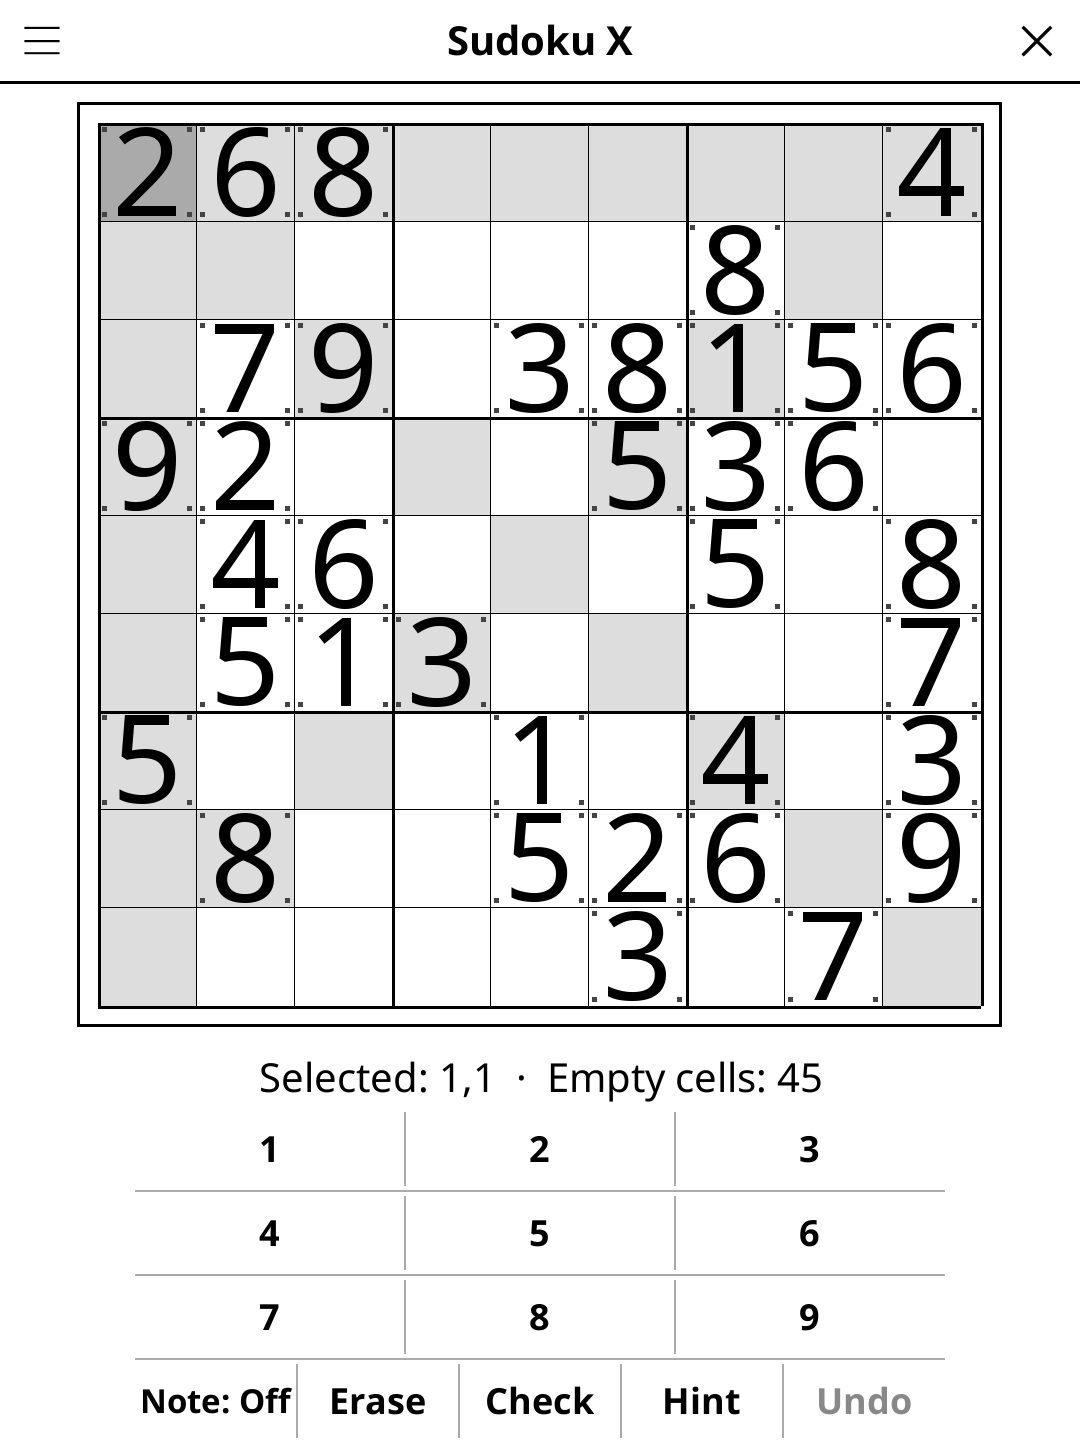
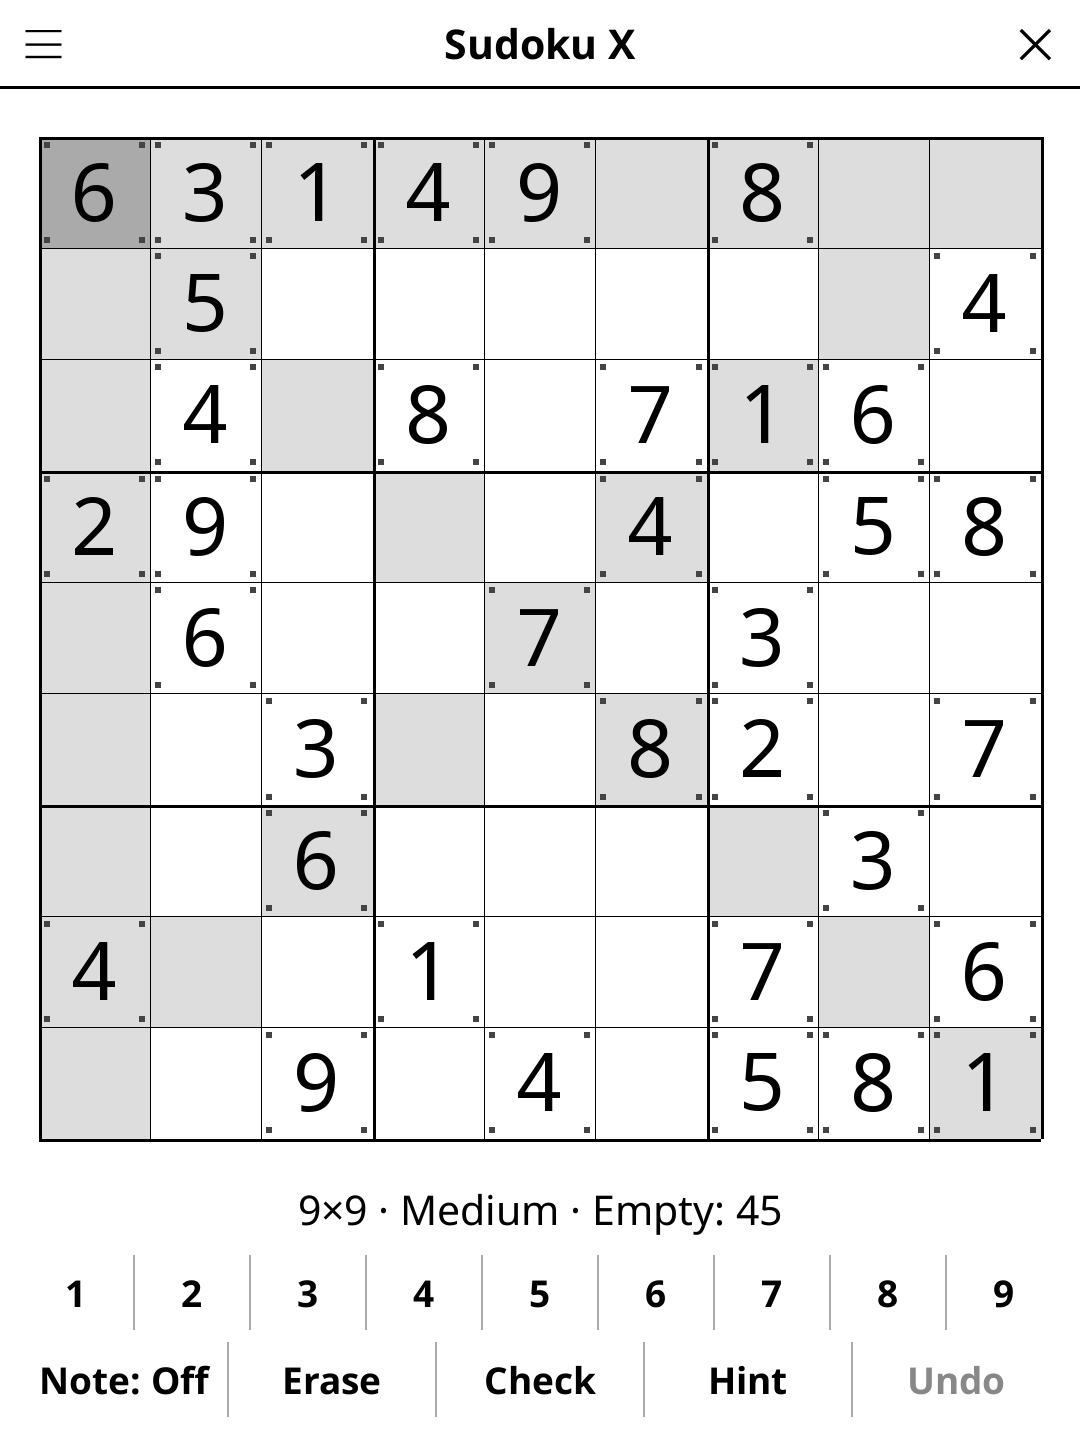
release: 1.5.0 -- redesigned screen, harmonised menu, New game at round end
Screen redesign (full-width action bar, unified pad, status line, larger
board), harmonised title-bar menu, and a "New game" button once the round
is over. See CHANGELOG.md.

diff --git a/CHANGELOG.md b/CHANGELOG.md
@@ -2,6 +2,25 @@
 
 All notable changes to this project will be documented in this file.
 
+## [1.5.0] - 2026-10-30
+
+### Changed
+- Redesigned play screen (sudoku-common 1.5.0): the board is larger, filling
+  the room the controls leave, with the digits 1-9 on one even row and Note /
+  Erase / Check / Hint / Undo in a full-width bar under the status line.
+- The status line reads "9×9 · Medium · Empty: 45" and wraps in landscape
+  instead of being cut off.
+- The title-bar menu shows "Difficulty: …" and "Show solution" / "Hide
+  solution" (was "Diff: …" and "Show result" / "Hide result"), like every
+  other game.
+- Once the puzzle is solved, the tool bar shows "New game" in place of
+  Note/Erase/Check/Hint/Undo; an Undo that un-solves the grid brings the tools
+  back.
+
+### Fixed
+- Digits overflowed their cells: the shared font fit accepted every size.
+  Digits and notes now fit their cell on every screen.
+
 ## [1.4.1] - 2026-10-02
 
 ### Fixed

diff --git a/README.md b/README.md
@@ -40,7 +40,7 @@ Standard 9×9 Sudoku rules plus a **diagonal constraint**: each of the two main 
 | Check progress | Tap **Check** |
 | Get a hint | Tap **Hint** (tap again to go deeper) |
 | New game | Tap **New game** |
-| Change difficulty | Tap **Diff** |
+| Change difficulty | Tap **Difficulty** |
 | Show rules | Tap **Rules** |
 
 ## License
